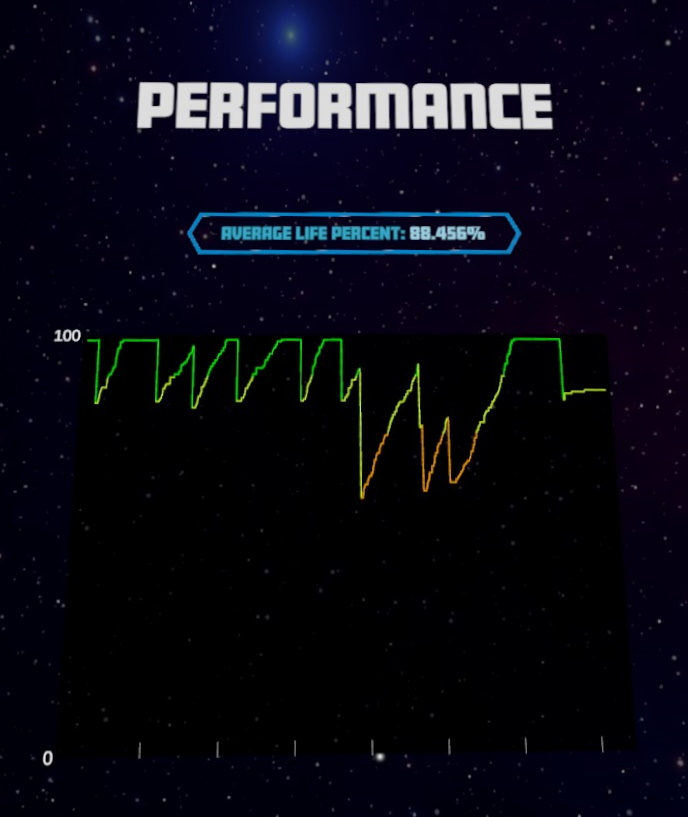
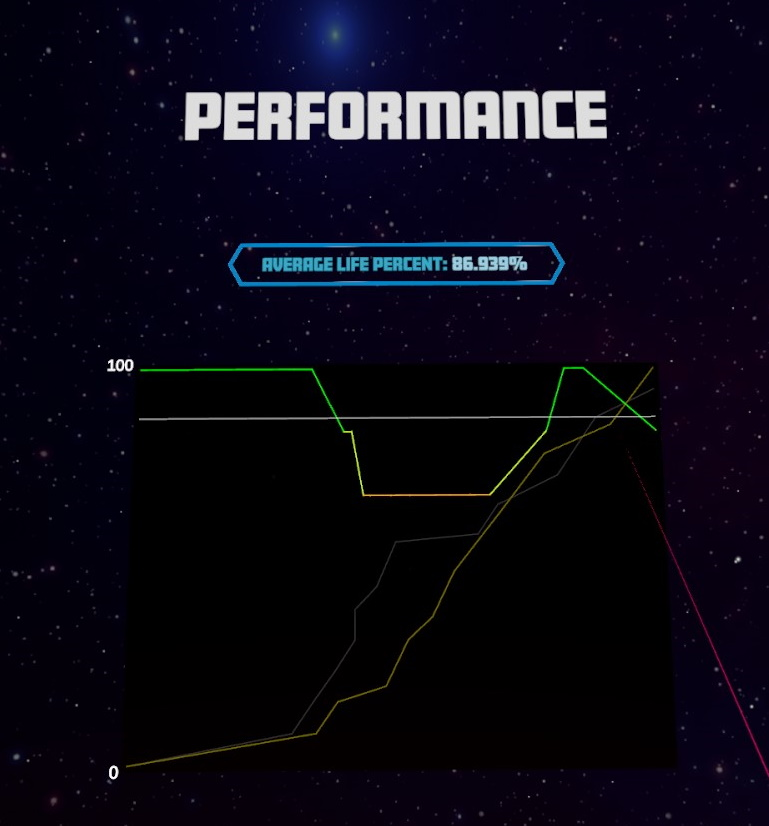
Update README and image

diff --git a/README.md b/README.md
@@ -1,7 +1,13 @@
 # Synth Riders Performance Meter
 Synth Riders Performance Meter mod inspired by [MCJack123's PerformanceMeter BeatSaber mod](https://github.com/MCJack123/PerformanceMeter).
 
-Adds an additional panel to the end game screen showing the average percentage of your life bar and a graph of the life bar over the course of the song.
+Currently uses [SynthRiders-Websocket-Mod](https://github.com/KK964/SynthRiders-Websockets-Mod) to get most of the data.
+
+Adds an additional panel to the end game screen showing various statistics from your last song run.
+- Colorful line is life percentage
+- White horizontal line is average life percentage
+- Rising white line is high total score (saved locally)
+- Rising yellow line is total score from current run
 
 More features coming soon!
 
@@ -11,32 +17,41 @@ More features coming soon!
 ## Setup
 1. Prepare Synth Riders for modding by following the [MelonLoader](https://melonwiki.xyz/#/README) wiki guide
 2. Download the newest version of SRPerformanceMeter from the Releases section
-3. Extract the .zip file
-4. Copy PerformanceMeter.dll to `<path-to-game>\Mods` (create new directory if it doesn't exist). On Windows, this will be at `C:\Program Files (x86)\Steam\steamapps\common\SynthRiders\Mods`
+3. Extract the contents of the .zip file to  `<path-to-synth-riders>\Mods` (create a new directory if it doesn't exist). On Windows, this will be at `C:\Program Files (x86)\Steam\steamapps\common\SynthRiders\Mods`
 4. Run Synth Riders and enjoy!
 
 ## Configuration
 After running Synth Riders at least once with this mod, a configuration file will be created at `SynthRiders\UserData\PerformanceMeter\PerformanceMeter.cfg` that can be edited with any simple text editor. Settings are loaded at boot and are logged out in MelonLoader.
 
+### `isEnabled`
+Default: `true`
+Values: `true` or `false`
+Description: Toggles the entire mod.
+
 ### `showAverageLine`
 Default: `true`
 Values: `true` or `false`
-Description: Toggles the horizontal line indicating your average of the currently tracked statistic.
+Description: Toggles the horizontal line indicating your average life percentage.
+
+### `showLifePercentGraph`
+Default: `true`
+Values: `true` or `false`
+Description: Toggles the graph showing life percent over the course of the song.
+
+### `showTotalScoreComparisonGraph`
+Default: `true`
+Values: `true` or `false`
+Description: Toggles the graph showing your current score (yellow) and last high score (white).
 
 ### `markerPeriodMs`
 Default: 30000
 Values: 1000 to 300000 (1 sec to 5 min)
 Description: Controls the time interval that the vertical markers at the bottom of the graph represent.
 
-### `lifeCheckPeriodMs`
-Default: 100
-Values: 50 to 5000 (50 ms to 5 sec)
-Description: Controls how frequently life percentage data is retrieved. Increasing this value may help with performance at the cost of a less accurate graph.
-
 ## Technical Detail
-- During gameplay the life bar percentage is polled occasionally
 
 - Less than 50% life is red, 50-74.99% is orange, 75-89.99% is yellow-green, and 90%+ is green
+- Local data is stored in SynthRiders/UserData/PerformanceMeter/PerformanceMeter.db, a LiteDB database.
 
 ---
 
